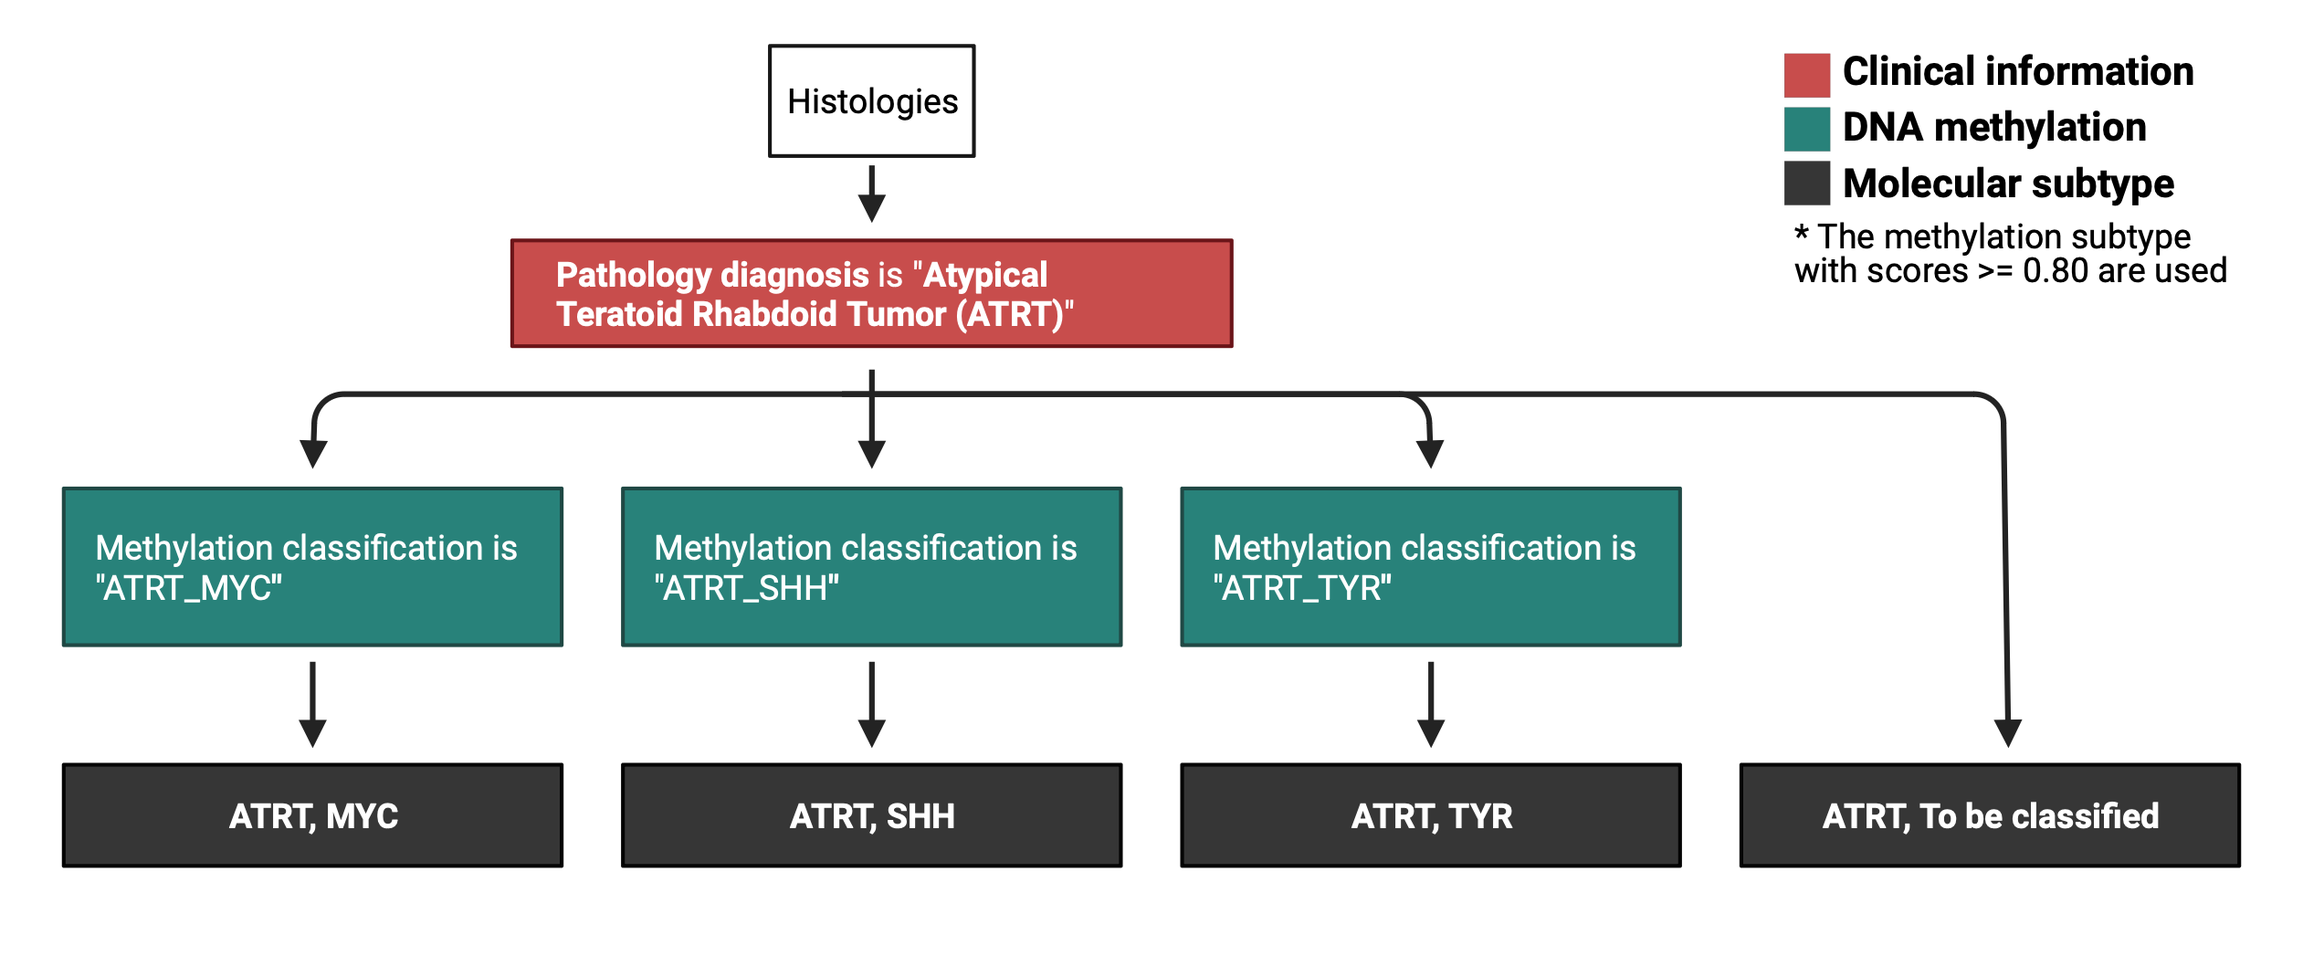
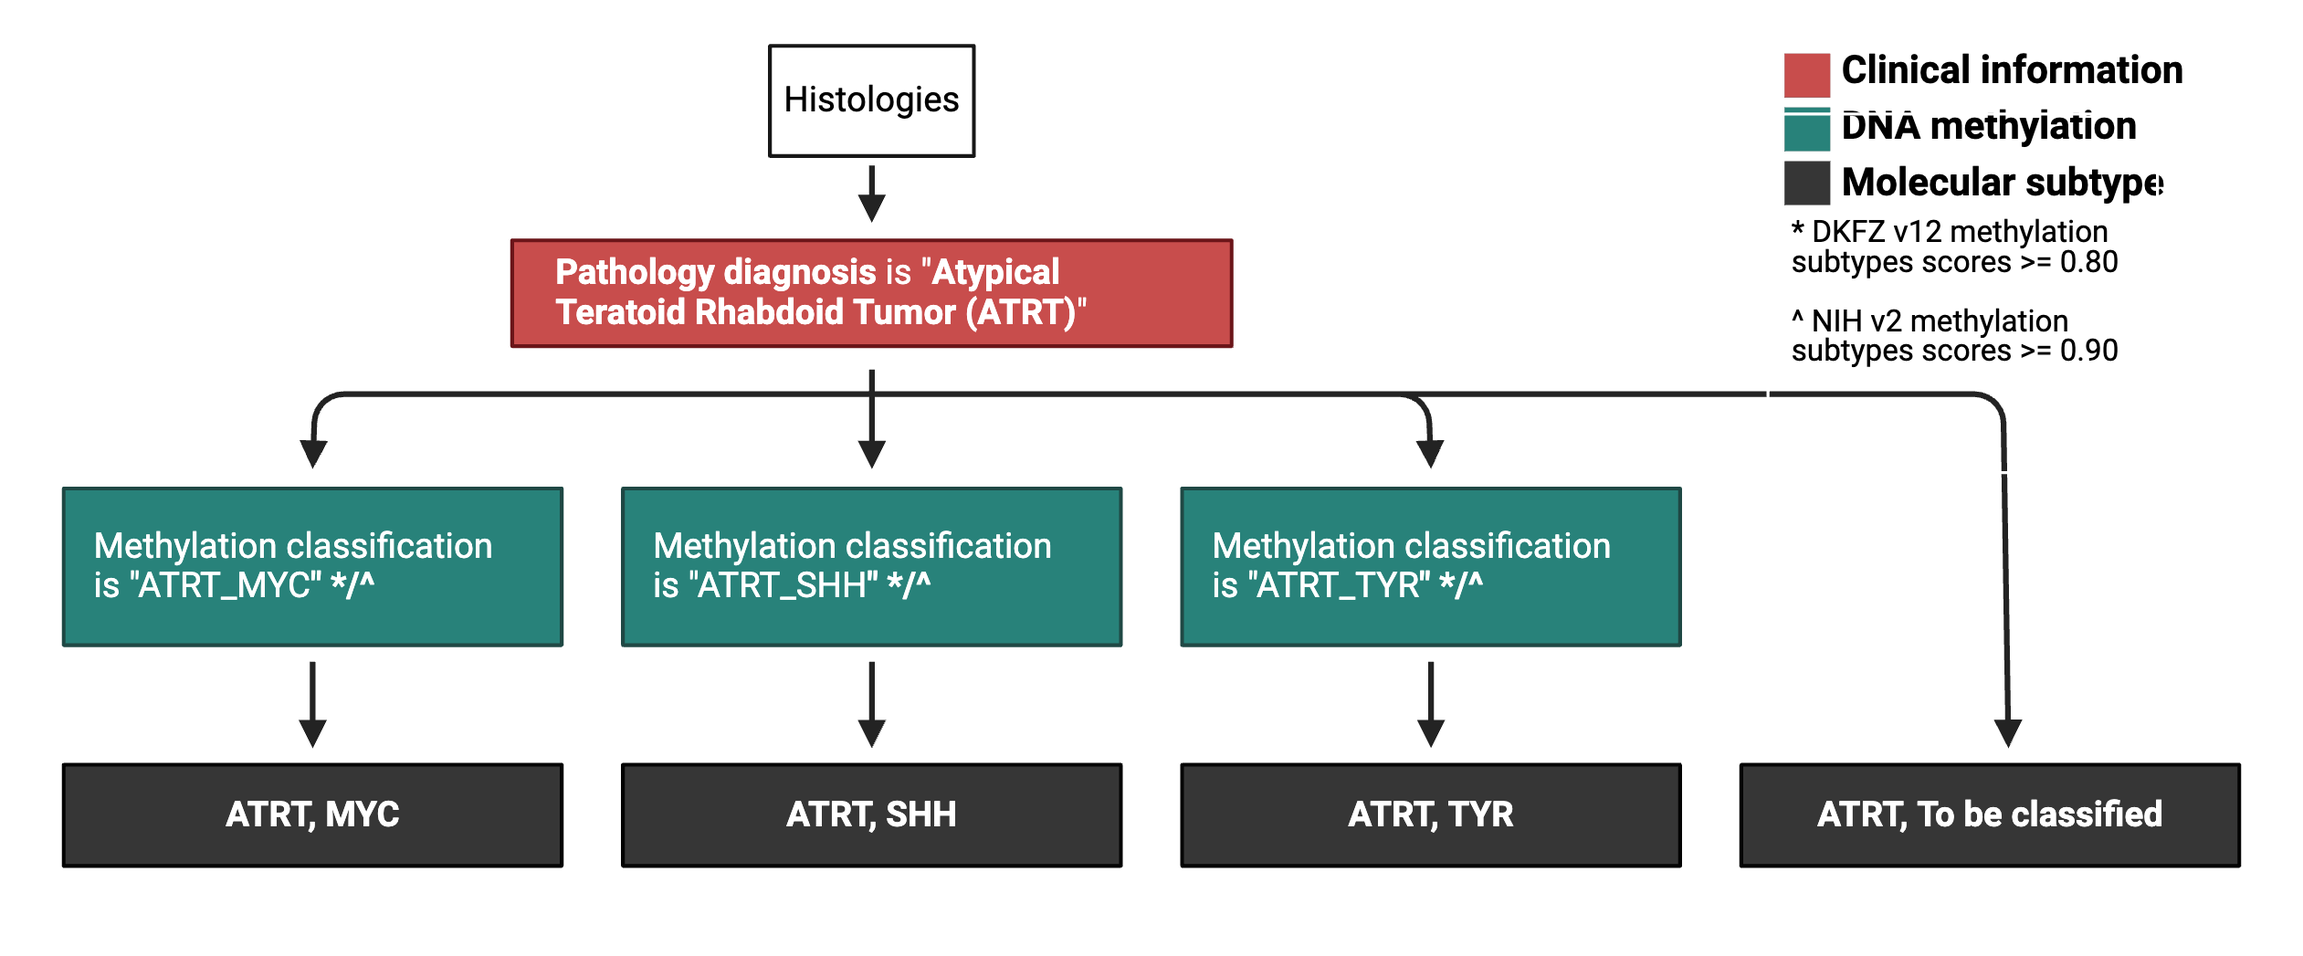
update ATRT/HGG figures and readme for inclusion of NIH classifier

diff --git a/analyses/molecular-subtyping-HGG/README.md b/analyses/molecular-subtyping-HGG/README.md
@@ -5,9 +5,9 @@ output:
 ---
 # Molecular Subtyping High-grade Gliomas
 
-**Module authors:** Chante Bethell ([@cbethell](https://github.com/cbethell)), Stephanie J. Spielman([@sjspielman](https://github.com/sjspielman)), and Jaclyn Taroni ([@jaclyn-taroni](https://github.com/jaclyn-taroni))
+**Module authors:** Chante Bethell ([@cbethell](https://github.com/cbethell)), Stephanie J. Spielman([@sjspielman](https://github.com/sjspielman)), and Jaclyn Taroni ([@jaclyn-taroni](https://github.com/jaclyn-taroni)), Jo Lynne Rokita([@jharenza](https://github.com/jharenza))
 
-**Note: The files in the `hgg-subset` directory were generated via `02-HGG-molecular-subtyping-subset-files.R` using the the files in the version 9 data release.
+**Note: The files in the `hgg-subset` directory were generated via `02-HGG-molecular-subtyping-subset-files.R` using the the files in the version 14 data release.
 When re-running this module, you may want to regenerate the HGG subset files using the most recent data release.**
 
 ## Molecular subtyping HGG workflow
@@ -26,36 +26,29 @@ When run in this manner, `02-HGG-molecular-subtyping-subset-files.R` will genera
 
 `run-molecular-subtyping-HGG.sh` is designed to be run as if it was called from this module directory even when called from outside of this directory.
 
-`00-HGG-select-pathology-dx.Rmd` is not run via this shell script, as it should be run locally, tied to `v9`, and should not be re-rendered when there are changes to the underlying `histologies.tsv` file in future releases (see [Folder content](#folder-content) and [#748](https://github.com/AlexsLemonade/OpenPBTA-analysis/issues/748)).
+`00-HGG-select-pathology-dx.Rmd` is not run via this shell script, as it should be run locally, tied to `v14`, and should not be re-rendered when there are changes to the underlying `histologies.tsv` file in future releases (see [Folder content](#folder-content) and [#748](https://github.com/AlexsLemonade/OpenPedCan-analysis/issues/748)).
 
 ## Folder content
 
 This folder contains scripts tasked to molecularly subtype High-grade Glioma samples in the PBTA dataset.
-
-[`00-v17-HGG-select-pathology-dx.Rmd`](https://alexslemonade.github.io/OpenPBTA-analysis/analyses/molecular-subtyping-HGG/00-v17-HGG-select-pathology-dx.nb.html) is a notebook used to explore the `pathology_diagnosis` and `pathology_free_text_diagnosis` fields in the `v9` version of `histologies.tsv`. 
-Previously, this module used `short_histology == "HGAT"` to identify samples to be included for subtyping. 
-In future releases, the `short_histology` values will be derived from the `pathology_diagnosis` and `molecular_subtype` values (see [#748](https://github.com/AlexsLemonade/OpenPBTA-analysis/issues/748)); this module generates the latter.
-Thus, we needed to identify the samples to included for subtyping on the basis of the `pathology_diagnosis` and `pathology_free_text_diagnosis` values.
-This notebook looks at what `pathology_diagnosis` and `pathology_free_text_diagnosis` values are associated with samples with `cancer_group` associated with HGAT in `v9`.
+[`00-HGG-select-pathology-dx.R`](https://d3b-center/OpenPedCan-analysis/analyses/molecular-subtyping-HGG/00-HGG-select-pathology-dx.R) gathers the exact matches for inclusion in the `pathology_diagnosis` and `pathology_free_text_diagnosis` which are saved in [`hgg-subset/hgg_subtyping_path_dx_strings.json`](hgg-subset/hgg_subtyping_path_dx_strings.json), which is used downstream in `02-HGG-molecular-subtyping-subset-files` to generate subset files.
 
 
-[`00-HGG-select-pathology-dx.R`](https://alexslemonade.github.io/OpenPBTA-analysis/analyses/molecular-subtyping-HGG/00-HGG-select-pathology-dx.R) gathers the exact matches for inclusion in the `pathology_diagnosis` and `pathology_free_text_diagnosis` which are saved in [`hgg-subset/hgg_subtyping_path_dx_strings.json`](hgg-subset/hgg_subtyping_path_dx_strings.json), which is used downstream in `02-HGG-molecular-subtyping-subset-files` to generate subset files.
-
-
-[`01-HGG-molecular-subtyping-defining-lesions.Rmd`](https://alexslemonade.github.io/OpenPBTA-analysis/analyses/molecular-subtyping-HGG/01-HGG-molecular-subtyping-defining-lesions.nb.html) is a notebook written to look at the high-grade glioma defining lesions (_H3-3A_ K28M, _H3-3A_ G35R/V, _H3C2_ K28M, _H3C3_ K28M, _H3C14_ K28M) for all tumor samples except LGAT in the PBTA dataset. This notebook produces a results table found at `results/HGG_defining_lesions.tsv`.
+[`01-HGG-molecular-subtyping-defining-lesions.Rmd`](https://d3b-center/OpenPedCan-analysis/analyses/molecular-subtyping-HGG/01-HGG-molecular-subtyping-defining-lesions.nb.html) is a notebook written to look at the high-grade glioma defining lesions (_H3-3A_ K28M, _H3-3A_ G35R/V, _H3C2_ K28M, _H3C3_ K28M, _H3C14_ K28M/I) for all tumor samples except LGAT and EPN in the PBTA dataset. 
+This notebook produces a results table found at `results/HGG_defining_lesions.tsv`.
 
 `02-HGG-molecular-subtyping-subset-files.R` is a script written to subset the copy number, gene expression, fusion, mutation, SNV and GISTIC's broad values files to include only samples that meet one of the following criteria: 1) with defining lesions 2) have `pathology_diagnosis` values that match those in [`hgg-subset/hgg_subtyping_path_dx_strings.json`](hgg-subset/hgg_subtyping_path_dx_strings.json).
 This script produces the relevant subset files that can be found in the `hgg-subset` directory.
 
-[`03-HGG-molecular-subtyping-cnv.Rmd`](https://alexslemonade.github.io/OpenPBTA-analysis/analyses/molecular-subtyping-HGG/03-HGG-molecular-subtyping-cnv.nb.html) is a notebook written to prepare the copy number data relevant to HGG molecular subtyping.
-The CNVkit focal copy number file generated in the [`focal-cn-file-preparation`](https://alexslemonade.github.io/OpenPBTA-analysis/analyses/focal-cn-file-preparation/) module is used as this CNVkit was also used to produce the GISTIC `broad_values_by_arm.txt` file that is also implemented in this module.
+[`03-HGG-molecular-subtyping-cnv.Rmd`](https://d3b-center/OpenPedCan-analysis/analyses/molecular-subtyping-HGG/03-HGG-molecular-subtyping-cnv.nb.html) is a notebook written to prepare the copy number data relevant to HGG molecular subtyping.
+The CNVkit focal copy number file generated in the [`focal-cn-file-preparation`](https://d3b-center/OpenPedCan-analysis/analyses/focal-cn-file-preparation/) module is used as this CNVkit was also used to produce the GISTIC `broad_values_by_arm.txt` file that is also implemented in this module.
 GISTIC arm values are coded as `"loss"` when arm values are negative, `"gain"` when arm values are positive, and `"neutral"` when arm value = 0. 
 For samples that do not have GISTIC results, arm value = NA is given - this will apply to all WXS and panel data since now GISTIC is only run on WGS samples.
 (Tumor ploidy is not taken into account.)
 This notebook produces a CNV results table with cleaned CNVkit and GISTIC data found at `results/HGG_cleaned_cnv.tsv`.
 
-[`04-HGG-molecular-subtyping-mutation.Rmd`](https://alexslemonade.github.io/OpenPBTA-analysis/analyses/molecular-subtyping-HGG/04-HGG-molecular-subtyping-mutation.nb.html) is a notebook written to prepare the consensus mutation data relevant to HGG molecular subtyping.
-Per [issue #249](https://github.com/AlexsLemonade/OpenPBTA-analysis/issues/249) in the OpenPBTA-analysis repository, we filtered the subset SNV data to the genes of interest based on the following criteria: 
+[`04-HGG-molecular-subtyping-mutation.Rmd`](https://d3b-center/OpenPedCan-analysis/analyses/molecular-subtyping-HGG/04-HGG-molecular-subtyping-mutation.nb.html) is a notebook written to prepare the consensus mutation data relevant to HGG molecular subtyping.
+We filtered the subset SNV data to the genes of interest based on the following criteria: 
 
 * For genes that were mentioned as defining or coocurring lesions (with the exception of _TERT_; see below), we included only mutations in coding sequences (CDS) that were not classified as silent mutations. 
 Genes with a mutation that met these criteria are stored as comma-separated values in the `relevant_coding_mutations` column of the cleaned mutation table for a biospecimen.
@@ -65,38 +58,45 @@ The `Variant_Classification` values for any _TERT_ mutation in a biospecimen are
 
 The cleaned table is found at `results/HGG_cleaned_mutation.tsv`.
 
-[`05-HGG-molecular-subtyping-fusion.Rmd`](https://alexslemonade.github.io/OpenPBTA-analysis/analyses/molecular-subtyping-HGG/05-HGG-molecular-subtyping-fusion.nb.html) is a notebook written to prepare the putative oncogenic fusion data relevant to HGG molecular subtyping.
-Per [issue #249](https://github.com/AlexsLemonade/OpenPBTA-analysis/issues/249), we filtered the data to the two fusions of interest: _FGFR1_ fusions, which should be mutually exclusive of H3 K28 mutants, and _NTRK_ fusions, which are co-occurring with H3 G35 mutants.
+[`05-HGG-molecular-subtyping-fusion.Rmd`](https://d3b-center/OpenPedCan-analysis/analyses/molecular-subtyping-HGG/05-HGG-molecular-subtyping-fusion.nb.html) is a notebook written to prepare the putative oncogenic fusion data relevant to HGG molecular subtyping.
+Per [issue #249](https://github.com/AlexsLemonade/OpenPedCan-analysis/issues/249), we filtered the data to the two fusions of interest: _FGFR1_ fusions, which should be mutually exclusive of H3 K28 mutants, and _NTRK_ fusions, which are co-occurring with H3 G35 mutants.
 **Note:** _NTRK_ refers to a [family of receptor kinases](https://www.biooncology.com/pathways/cancer-tumor-targets/ntrk/ntrk-oncogenesis.html), so we include the full fusion name to account for various individual _NTRK_ gene symbols.
 Per [issue #474] (https://github.com/PediatricOpenTargets/ticket-tracker/issues/474), more gene fusions ( _ROS1_, _ALK_, and _MET_) were included as there is new 2021 entity within HGGs called "Infant-type hemispheric glioma" (IHG). This HGG is cerebral (hemispheric), arises in early childhood, and is characterized by RTK (receptor tyrosine kinase) alterations, typically fusions, in the _NTRK_ family, which has been included before, or in _ROS1_, _ALK_, or _MET_.
 There is no mention of specific fusion partners or orientations, so we look at _any_ instances of fusions that include the genes mentioned above.
 This notebook produces a fusion results table found at `results/HGG_cleaned_fusion.tsv`.
 
-[`06-HGG-molecular-subtyping-gene-expression.Rmd`](https://alexslemonade.github.io/OpenPBTA-analysis/analyses/molecular-subtyping-HGG/06-HGG-molecular-subtyping-gene-expression.nb.html) is a notebook written to prepare the gene expression data relevant to HGG molecular subtyping.
-Per [issue #249](https://github.com/AlexsLemonade/OpenPBTA-analysis/issues/249), we filtered the z-scored gene expression to genes of interest: _OLIG2_ and _FOXG1_ should be highly expressed in IDH mutants, and _TP73-AS1_ methylation and downregulation cooccurs with _TP53_ mutations.
+[`06-HGG-molecular-subtyping-gene-expression.Rmd`](https://d3b-center/OpenPedCan-analysis/analyses/molecular-subtyping-HGG/06-HGG-molecular-subtyping-gene-expression.nb.html) is a notebook written to prepare the gene expression data relevant to HGG molecular subtyping.
+Per [issue #249](https://github.com/AlexsLemonade/OpenPedCan-analysis/issues/249), we filtered the z-scored gene expression to genes of interest: _OLIG2_ and _FOXG1_ should be highly expressed in IDH mutants, and _TP73-AS1_ methylation and downregulation cooccurs with _TP53_ mutations.
 This notebook produces two expression results table (one for each selection strategy) found at `results/HGG_cleaned_expression.tsv`.
 
-[`07-HGG-molecular-subtyping-combine-table.Rmd`](https://alexslemonade.github.io/OpenPBTA-analysis/analyses/molecular-subtyping-HGG/07-HGG-molecular-subtyping-combine-table.nb.html) is a notebook written to combine the cleaned copy number, mutation, fusion, and gene expression data (prepared in this module's previous notebooks) into one final table of results.
+[`07-HGG-molecular-subtyping-combine-table.Rmd`](https://d3b-center/OpenPedCan-analysis/analyses/molecular-subtyping-HGG/07-HGG-molecular-subtyping-combine-table.nb.html) is a notebook written to combine the cleaned copy number, mutation, fusion, and gene expression data (prepared in this module's previous notebooks) into one final table of results.
 This notebook produces one table with the cleaned data found at `results/HGG_cleaned_all_table.tsv`.
+Methylation classification is used during subtyping.
+The DKFZ v12b6 data are available in `dkfz_v12_methylation_subclass` and subtypes with `dkfz_v12_methylation_subclass_score >= 0.8` are considered high-confidence and used here.
+The NIH Bethesda classifier v2 data are available in `NIH_v2_methylation_Class` and subtypes with `NIH_v2_methylation_Class_mean_score >= 0.9 and NIH_v2_methylation_Superfamily_mean_score >= 0.9` are considered high-confidence and determined in order using DKFZ first and if a subtype score is < 0.8 for DKFZ but is high-confidence for NIH, then the NIH subtype is used.
+
 A table with the molecular subtype information for each HGG sample at `results/HGG_molecular_subtype.tsv` is also produced, where the subtype values in the `molecular_subtype` column are determined as follows:
 
-1. If there was an _H3-3A_ K28M, _H3C2_ K28M, _H3C3_ K28M, or _H3C14_ K28M mutation -> `DMG, H3K28`
-2. If there was an _H3-3A_ G35V or G35R mutation -> `HGG, H3 G35`
-3. If there was an _IDH1_ R132 mutation -> `HGG, IDH`
-4. All other samples that did not meet any of these criteria were marked as `HGG, H3 wildtype` if there was no canonical histone variant the DNA sample, the methylation classification subtype if present, or else `HGG, To be classified` 
-5. In `histologies_base.tsv`, column `pathology_free_text_diagnosis` contains "infant type hemispheric glioma" or `cns_methylation_subclass` == "IHG" -> `IHG`
+1. If there was an _H3-3A_ K28M or K28I, _H3C2_ K28M or K28I, _H3C3_ K28M or K28I, or _H3C14_ K28M or K28I mutation or high-confidence methylation subtype (`DMG_K27`, `DMG_EGFR`, or `GBM_THAL(K27)`)-> `DMG, H3K28`
+2. If there was an _H3-3A_ G35V or G35R mutation or high-confidence methylation subtype (`DHG_G34` or `GBM_G34`) -> `HGG, H3 G35`
+3. If there was an _IDH1_ R132 mutation or high-confidence methylation subtype (`A_IDH_HG` or `GBM_IDH`)-> `HGG, IDH`
+4. In `histologies_base.tsv`, column `pathology_free_text_diagnosis` contains "infant type hemispheric glioma" or `dkfz_v12_methylation_subclass` == `IHG` -> `IHG`
     1. If there was a _NTRK_ fusion -> `IHG, NTRK-altered`
     2. If there was a _ROS1_ fusion -> `IHG, ROS1-altered`
     3. If there was a _ALK_ fusion -> `IHG, ALK-altered`
     4. If there was a _MET_ fusion -> `IHG, MET-altered`
     5. If there was no fusion -> `IHG, To be classified` based on IHG methylation classification and sample clinical report in the `pathology_diagnosis_free_text` stated as `infant type hemispheric glioma`
+5. If methylation subtype == "PXA" or `pathology_free_text_diagnosis` contains "pleomorphic xanthoastrocytoma" or "pxa" AND there was a BRAF V600E mutation AND loss of CDKN2A and/or CDKN2B -> `HGG, PXA`
+6. If methylation subtype == "O_IDH" -> `Oligo, IDH`
+7. If methylation subtype == "OLIGO_IDH" -> `Oligosarcoma, IDH`
+8. All other samples that did not meet any of these criteria were marked as `HGG, H3 wildtype` if there was no canonical histone variant the DNA sample, the methylation classification subtype if present, or else `HGG, To be classified` 
 
-[`08-1p19q-codeleted-oligodendrogliomas.Rmd`](https://alexslemonade.github.io/OpenPBTA-analysis/analyses/molecular-subtyping-HGG/08-1p19q-codeleted-oligodendrogliomas.nb.html) is a notebook written to identify samples in the OpenPBTA dataset that should be classified as 1p/19q co-deleted oligodendrogliomas.
+[`08-1p19q-codeleted-oligodendrogliomas.Rmd`](https://d3b-center/OpenPedCan-analysis/analyses/molecular-subtyping-HGG/08-1p19q-codeleted-oligodendrogliomas.nb.html) is a notebook written to identify samples in the OpenPBTA dataset that should be classified as 1p/19q co-deleted oligodendrogliomas.
 The GISTIC `broad_values_by_arm.txt` file is used to identify samples with `1p` and `19q` loss, then the consensus mutation file is filtered to the identified samples in order to check for _IDH1_ mutations.
-**Note:** Per [this comment](https://github.com/AlexsLemonade/OpenPBTA-analysis/pull/435#issuecomment-576898275), very few samples in the OpenPBTA dataset, if any, are expected to fit into the `1p/19q co-deleted oligodendrogliomas` subtype.
+**Note:** Per [this comment](https://github.com/AlexsLemonade/OpenPedCan-analysis/pull/435#issuecomment-576898275), very few samples in the OpenPBTA dataset, if any, are expected to fit into the `1p/19q co-deleted oligodendrogliomas` subtype.
 Also please **NOTE**: we currently only have GISTIC scores for WGS so we cannot tell whether a sample is `1p/19q co-deleted oligodendrogliomas` if they are sequenced with WXS or targeted sequencing.
 
-[`09-HGG-with-braf-clustering.Rmd`](https://alexslemonade.github.io/OpenPBTA-analysis/analyses/molecular-subtyping-HGG/09-HGG-with-braf-clustering.nb.html) is a notebook written to identify high grade glioma samples without histone mutations that have `BRAF V600E` mutations and observe how they cluster alongside low grade gliomas and high grade gliomas without the `BRAF V600E` mutation in the stranded RNA-seq data (which contains both histologies) in RNA-seq data.
+[`09-HGG-with-braf-clustering.Rmd`](https://d3b-center/OpenPedCan-analysis/analyses/molecular-subtyping-HGG/09-HGG-with-braf-clustering.nb.html) is a notebook written to identify high grade glioma samples without histone mutations that have `BRAF V600E` mutations and observe how they cluster alongside low grade gliomas and high grade gliomas without the `BRAF V600E` mutation in the stranded RNA-seq data (which contains both histologies) in RNA-seq data.
 We plotted the t-SNE and UMAP results from the `transcriptomic-dimension-reduction`, highlighting samples without histone mutations and with a _BRAF_ V600E mutation. 
 The results, shown below, suggest that one sample may be a candidate for reclassification (also saved in the `plots` directory of this module).
 
@@ -137,7 +137,8 @@ The structure of this folder is as follows:
 │   └── hgg_zscored_expression.RDS
 ├── plots
 │   ├── HGG_stranded.pdf
-│   └── HGG_stranded.png
+│   ├── HGG_stranded.png
+│   └── mol_subtype_workflow.png
 ├── results
 │   ├── HGG_cleaned_all_table.tsv
 │   ├── HGG_cleaned_cnv.tsv

diff --git a/analyses/molecular-subtyping-ATRT/README.md b/analyses/molecular-subtyping-ATRT/README.md
@@ -21,14 +21,20 @@ bash run-molecular-subtyping-ATRT.sh
 ## Folder content
 
 This folder contains scripts tasked to molecularly subtype ATRT samples in the PBTA dataset.
+Methylation classification is used during subtyping.
+The DKFZ v12b6 data are available in `dkfz_v12_methylation_subclass` and subtypes with `dkfz_v12_methylation_subclass_score >= 0.8` are considered high-confidence and used here.
+The NIH Bethesda classifier v2 data are available in `NIH_v2_methylation_Class` and subtypes with `NIH_v2_methylation_Class_mean_score >= 0.9 and NIH_methylation_Superfamily_mean_score >= 0.9` are considered high-confidence and used here.
 
 `00-ATRT_subtyping.R` selects samples from `histologies-base.tsv` and subtypes all PBTA and/or DGD tumor biospecimens into three subtypes, (`ATRT, MYC`, `ATRT, SHH` and `ATRT, TYR`).
 
-* Filter the samples with `cns_methylation_subclass_score >=0.8` and `cns_methylation_subclass` is one of the three ATRT subtypes ->
+* Filter the samples with `dkfz_v12_methylation_subclass_score >=0.8` and if `dkfz_v12_methylation_subclass` is one of the three ATRT subtypes ->
   * `ATRT, MYC`
   * `ATRT, SHH`
   * `ATRT, TYR`
-* Filter the samples with `cns_methylation_subclass_score >=0.8` and `cns_methylation_subclass` is not one of the three ATRT subtypes -> `ATRT, To be clasified`
-* If methylation does not exist for any ATRT samples -> `ATRT, To be clasified`
+If `dkfz_v12_methylation_subclass_score` < 0.8 but `NIH_v2_methylation_Class_mean_score >= 0.9 and NIH_methylation_Superfamily_mean_score >= 0.9`, and `NIH_v2_methylation_Class` is one of the three ATRT subtypes ->
+  * `ATRT, MYC`
+  * `ATRT, SHH`
+  * `ATRT, TYR`
+* All remaining samples -> `ATRT, To be clasified`
 
 Final results is a table with `sample_id`, `Kids_First_Biospecimen_ID_meth`, `Kids_First_Biospecimen_ID_DNA`, `Kids_First_Biospecimen_ID_RNA`, and `molecular_subtype`, and saved as `ATRT-molecular-subtypes.tsv`
